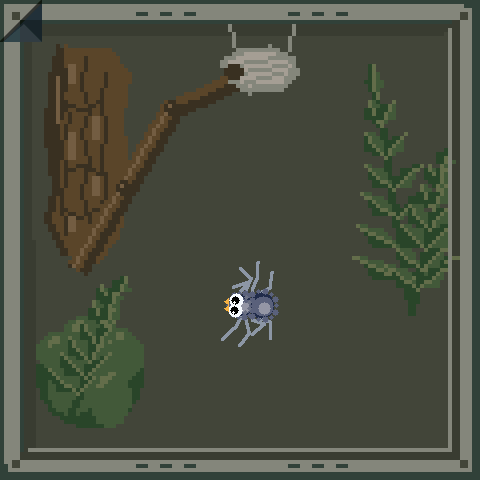
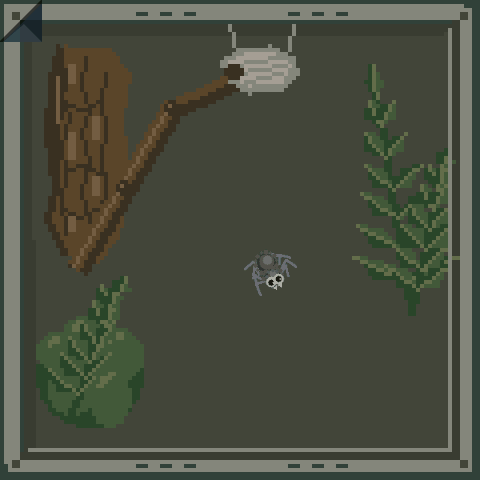
Release v1.1.7: reliable screen lock, slider follows the buttons
power_sleep() set s_sleeping itself, so power_tick() compared equal and skipped
the branch that shows the overlay - the screen often did not sleep. It now only
sets the sticky s_locked flag and lets power_tick() drive the overlay.

The long-press threshold drops from 1200ms to 700ms so an ordinary deliberate
press is not silently treated as a hold.

ui_menu_refresh() had lost its refresh_page() call, so the volume buttons
changed the audio level without moving the slider.

Changed region(s): [[0.4688, 0.5312, 0.625, 0.7188]]

diff --git a/main/buttons.c b/main/buttons.c
@@ -44,8 +44,9 @@ static const char *TAG = "spidarium.buttons";
 /* Debounce: a level must be stable for this long before it counts. */
 #define BTN_DEBOUNCE_MS 30u
 /* A press shorter than this is a short press. Anything longer is left to the
- * hardware role and produces no app action. */
-#define BTN_LONG_MS     1200u
+ * hardware role and produces no app action. Kept well under a second so a
+ * normal tap is never mistaken for a hold. */
+#define BTN_LONG_MS     700u
 /* Repeat interval while a volume button is held, after the long-press window. */
 #define BTN_REPEAT_MS   140u
 /* Volume step per press. */

diff --git a/main/power.c b/main/power.c
@@ -141,7 +141,9 @@ void power_wake(void)
 void power_sleep(void)
 {
     s_locked = true;
-    s_sleeping = true;
+    /* Do not set s_sleeping here: power_tick() compares it against the computed
+     * state to decide whether to show the overlay. Setting it early made the
+     * comparison false, so the overlay never appeared. */
     if (s_sleep_screen) {
         lv_obj_set_hidden(s_sleep_screen, false);
         lv_obj_move_foreground(s_sleep_screen);

diff --git a/main/ui_menu.c b/main/ui_menu.c
@@ -191,6 +191,7 @@ static void refresh_page(void);
 void ui_menu_refresh(void)
 {
     if (!s_items || !s_count) return;
+    refresh_page();
 }
 
 static void refresh_page(void)

diff --git a/docs/RELEASE_v1.1.7.md b/docs/RELEASE_v1.1.7.md
@@ -1,0 +1,32 @@
+# Spidarium v1.1.7
+
+## Screen lock is reliable
+
+Two bugs made the middle button feel unreliable:
+
+1. `power_sleep()` set `s_sleeping = true` itself. `power_tick()` then compared
+   the computed state against `s_sleeping`, found them equal, and skipped the
+   branch that shows the overlay — so the screen often did not sleep at all.
+   `power_sleep()` now only sets the sticky `s_locked` flag and lets
+   `power_tick()` drive the overlay.
+2. The long-press threshold was 1200 ms, so an ordinary deliberate press was
+   silently treated as a hold and produced no action. It is now 700 ms, which
+   still leaves BOOT and PWR their hardware roles for a real hold.
+
+## Volume slider follows the buttons
+
+`ui_menu_refresh()` was declared and called but its body had lost the
+`refresh_page()` call, so pressing the volume buttons changed the audio level
+without moving the slider. It now rebuilds the page, and the percentage label
+updates with it.
+
+## Verification
+
+Build exit 0 with zero `main/` warnings, flash exit 0, device suite 47/47,
+40-cycle soak `VERDICT: PASS` with 0 faults, `scanloop 5` and `render 500` both
+at `largest_drift=0`, browser suite 73/73.
+
+Lock verified on hardware: `locked=0` -> `buttons lock` -> `locked=1`, still
+`locked=1` after 3 s, then `locked=0` after `buttons unlock`.
+
+See the [progress log](../PROGRESS.md) for exact evidence.
